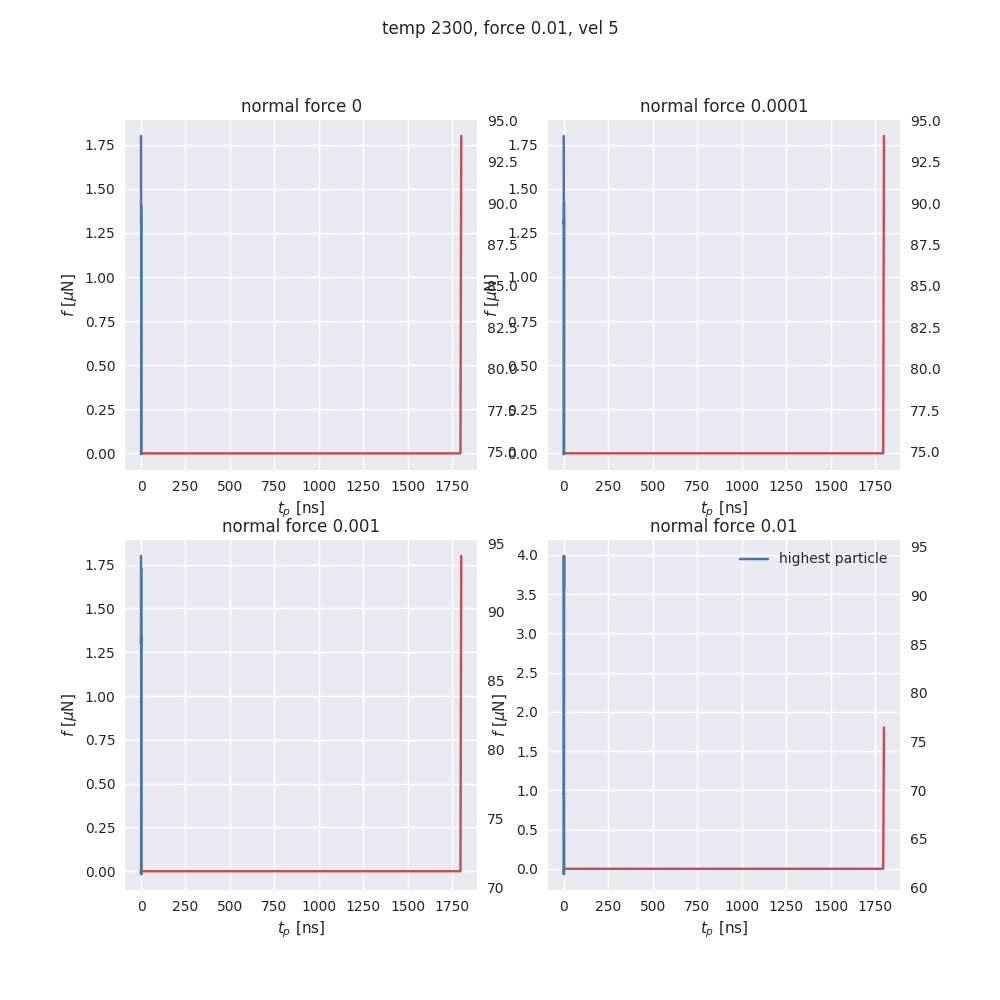
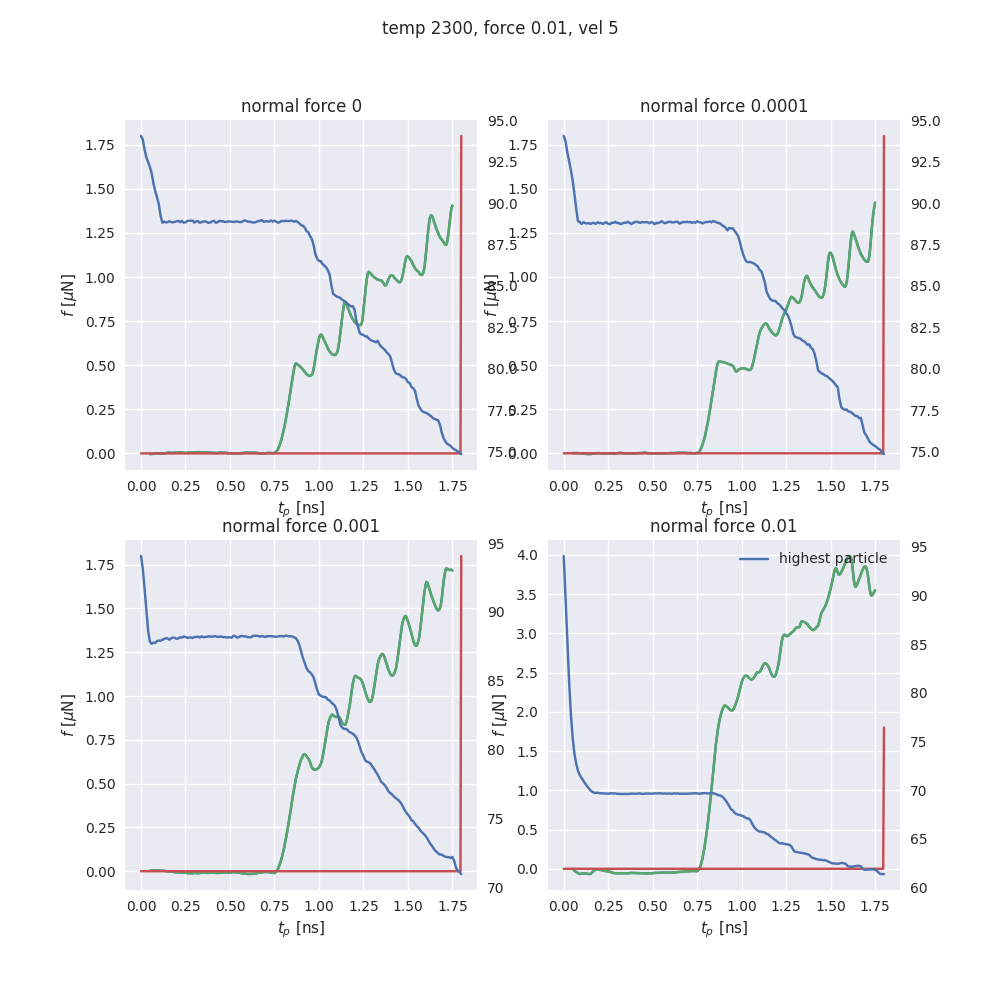
plot update

diff --git a/python/plot/plot_load_curves.py b/python/plot/plot_load_curves.py
@@ -307,7 +307,7 @@ def load_vs_normal_force():
         #print('mean load curves shape: ',load_curves_mean.shape)
         #print('all load curves shape: ',load_curves_all.shape)
         axs[i].plot(load_curves_mean[0,:,0], load_curves_mean[0,:,1], label = 'average')
-        axs[i].plot(np.linspace(0, time, len(pushdist)), pushdist*0.001, label = 'push distance')
+        axs[i].plot(np.linspace(0, time*0.001, len(pushdist)), pushdist*0.001, label = 'push distance')
         axs[i].set_xlabel(r"$t_p$ [ns]")
         axs[i].set_ylabel(r"$f$ [$\mu$N]")
         axs[i].set_title(f'normal force {force}')
